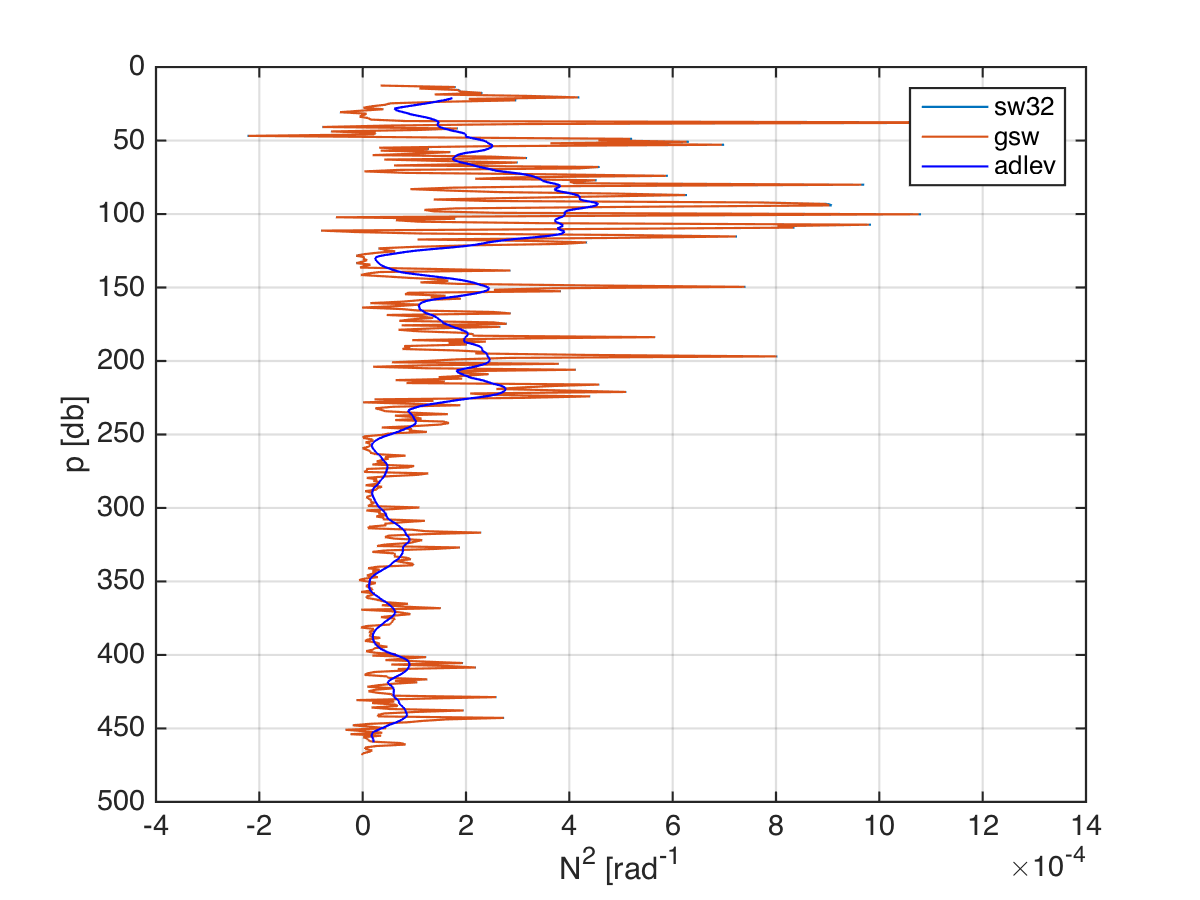
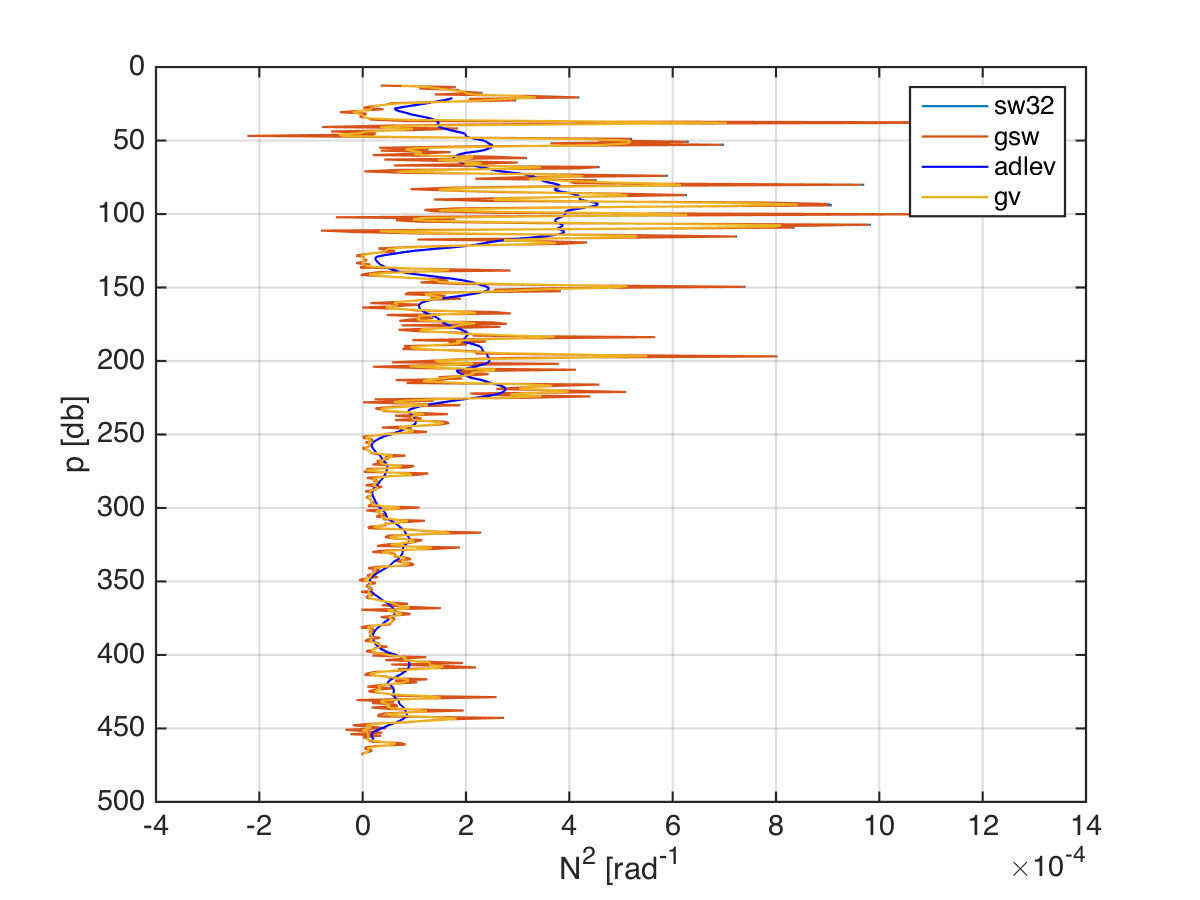
add Gunnar's N2 code and update plot

Changed region(s): [[0.2775, 0.0933, 0.6475, 0.84], [0.74, 0.1556, 0.8942, 0.2489], [0.7708, 0.0933, 0.8942, 0.1244]]

diff --git a/Stratification/Eval_N2_Codes.m b/Stratification/Eval_N2_Codes.m
@@ -24,6 +24,10 @@ load(fullfile(path_to_repo,'Data','CTD_N2a.mat'))
 % choose cast to use
 icast=5
 
+s=ctd.s(:,icast);
+t=ctd.t(:,icast);
+p=ctd.p;
+
 % Method (1) use sw_bfreq from sw ver3.2 library
 [n2_sw,q,p_sw]=sw_bfrq(ctd.s(:,icast), ctd.t(:,icast), ctd.p(:), ctd.lat(icast));
 
@@ -38,9 +42,6 @@ xlabel('N^2 [rad^{-1}','fontsize',15)
 % correctly..)
 addpath(fullfile(path_to_repo,'gsw_matlab_v2_0'))
 addpath(fullfile(path_to_repo,'gsw_matlab_v2_0','library'))
-s=ctd.s(:,icast);
-t=ctd.t(:,icast);
-p=ctd.p;
 lat=ctd.lat(icast);
 lon=ctd.lon(icast);
 % 1st need Absolute Salinity
@@ -75,6 +76,23 @@ ylabel('p [db]','fontsize',15)
 xlabel('N^2 [rad^{-1}','fontsize',15)
 
 legend([h1 h2 h3],'sw32','gsw','adlev')
+
+%% Method (4) - N^2 code from Gunnar Voet
+
+p0=0;
+dp=nanmean(diff(p))
+[n2_gv,p_gv,dthetadz,dsdz] = g_nsqfcn(s,t,p,p0,dp);
+
+figure(1);%clf
+hold on
+h4=plot(n2_gv,p_gv)
+axis ij
+grid on
+ylabel('p [db]','fontsize',15)
+xlabel('N^2 [rad^{-1}','fontsize',15)
+
+legend([h1 h2 h3 h4],'sw32','gsw','adlev','gv')
+
 
 %% save figure
 
